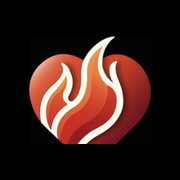
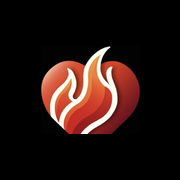
O coracao mais pequeno, e o azul obedece tambem ao dedo dele
O ICONE passa de 68 para 55 por cento da largura, e de 58 para 48 no mascarado
do Android. Geometricamente 68 ja nao devia cortar, mas quem tem o iPhone na
mao e ele: pedi uma previa com a mascara arredondada por cima para ver como
ele ve, e a 55 o coracao fica com folga clara dos quatro lados.

A FAIXA AZUL: assim que uma faixa comecava a tocar, o azul passava a seguir so
o que saia pelo altifalante e ignorava o que ele escolhia no menu. Tocar em
MUSICA nao mexia em nada.

Passa a seguir a ULTIMA COISA QUE ACONTECEU, seja o dedo dele ou a faixa
seguinte a comecar sozinha. As duas frases que ele me disse sobre isto nao se
contradizem: uma diz quem manda quando ele escolhe, a outra quem manda quando
ele nao faz nada.

Changed region(s): [[0.1389, 0.1944, 0.8611, 0.8056]]

diff --git a/apps/web/src/components/TocadorDeOnda.tsx b/apps/web/src/components/TocadorDeOnda.tsx
@@ -224,6 +224,22 @@ export function TocadorDeOnda({
                   ev.stopPropagation()
                   definirMenuAberto(false)
                   aoEscolherCategoria?.(c === TODOS ? null : c)
+                  /*
+                    ESCOLHER TAMBÉM MOVE A FAIXA AZUL.
+
+                    Ele apanhou isto em 02/09: "agora EXPLICAÇÃO fica azul, mas
+                    não consigo mudar manualmente". Tinha razão. Assim que uma
+                    faixa começava a tocar, o azul passava a seguir só o que
+                    estava a sair pelo altifalante e ignorava o que ele
+                    escolhia. Tocar em MÚSICA não mexia em nada.
+
+                    O azul segue a ÚLTIMA COISA QUE ACONTECEU, seja ela o dedo
+                    dele ou a faixa seguinte a começar sozinha. É o que ele
+                    descreveu das duas vezes que falou disto, e as duas frases
+                    não se contradizem: uma diz quem manda quando ele escolhe, a
+                    outra quem manda quando ele não faz nada.
+                  */
+                  definirCategoriaATocar(c)
                 }}
               >
                 {c}
